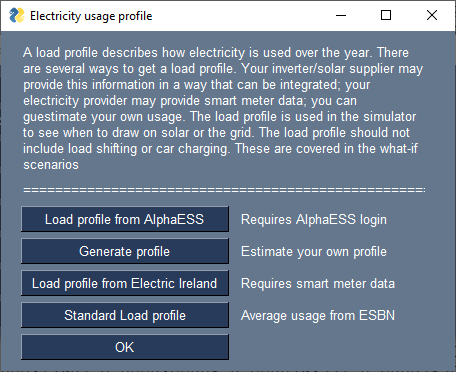
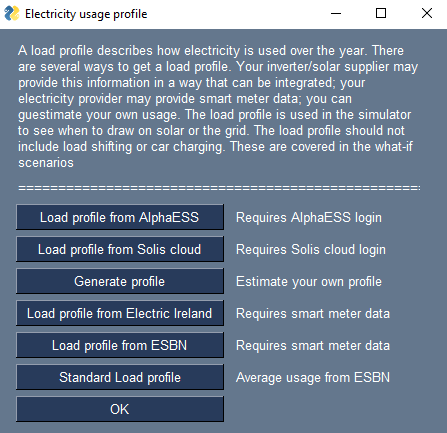
Add ESBN smart data file import

diff --git a/dataPopulation/makedbFromESBNSmartDataFile.py b/dataPopulation/makedbFromESBNSmartDataFile.py
@@ -1,0 +1,199 @@
+import logging
+import json
+import os
+import sys
+import sqlite3
+from sqlite3 import Error
+import datetime
+from dateutil.relativedelta import *
+
+import PySimpleGUI as sg
+import pandas as pd 
+
+
+CONFIG = "C:\\dev\\solar\\"
+STORAGE = "C:\\dev\\solar\\"
+DBFILE = "SimData.db"
+
+logger = logging.getLogger()
+logger.setLevel(logging.INFO)
+handler = logging.StreamHandler(sys.stdout)
+formatter = logging.Formatter('[%(asctime)s] %(levelname)s [%(filename)s.%(funcName)s:%(lineno)d] %(message)s', datefmt='%a, %d %b %Y %H:%M:%S')
+handler.setFormatter(formatter)
+logger.addHandler(handler)
+
+def _fillDB(dbFile, rows):
+    conn = None
+    try:
+        conn = sqlite3.connect(dbFile)
+        c = conn.cursor()
+        c.executemany('REPLACE INTO dailystats VALUES(?,?,?,?,?,?);',rows)
+        conn.commit()
+        c.execute("INSERT INTO dailysums SELECT Date, SUM(NormalPV) AS PV, SUM(NormalLoad) AS Load, 0 AS FeedIn FROM dailystats GROUP BY Date")
+        conn.commit()
+        conn.close()
+    except Error as e:
+        print(e)
+
+def _createDB(dbFile):
+    conn = None
+    try:
+        conn = sqlite3.connect(dbFile)
+        conn.execute("DROP TABLE IF EXISTS dailysums")
+        conn.execute("DROP TABLE IF EXISTS dailystats")
+        conn.commit()
+        conn.execute("CREATE TABLE IF NOT EXISTS dailystats ( \
+                        Date TEXT NOT NULL, \
+                        _min TEXT    NOT NULL, \
+                        NormalLoad REAL DEFAULT '', \
+                        NormalPV REAL DEFAULT '', \
+                        MinuteOfDay INTEGER DEFAULT '', \
+                        DayOfWeek INTEGER DEFAULT '', \
+                        PRIMARY KEY (Date, _min));")
+        # print("dailystats created")
+        conn.execute("CREATE TABLE IF NOT EXISTS dailysums ( \
+                        Date TEXT  PRIMARY KEY    NOT NULL, \
+                        PV REAL    NOT NULL, \
+                        Load REAL    NOT NULL, \
+                        FeedIn REAL NOT NULL \
+                        );")
+        conn.commit()
+        conn.close()
+    except Error as e:
+        print(e)
+
+def _getNormalLoad(mod, profile, workingday, daycount):
+    ret = 0
+    month = datetime.datetime.strftime(workingday, "%b")
+    dow = datetime.datetime.strftime(workingday, "%a")
+    hod = int(mod[:-3])
+    year = int(datetime.datetime.strftime(workingday, "%Y"))
+    imonth = int(datetime.datetime.strftime(workingday, "%m"))
+    day = datetime.date(year, imonth, 1)
+    single_day = datetime.timedelta(days=1)
+    totalXXXDaysInMonth = 0
+    while day.month == imonth:
+        if day.weekday() == 0:
+            totalXXXDaysInMonth += 1
+        day += single_day
+    
+    # ret = profile["HourlyBaseLoad"]/12
+    annualuse = profile["AnnualUsage"] # - (profile["HourlyBaseLoad"] * 24 * daycount)
+
+    distMonth = profile["MonthlyDistribution"][month]/100
+    distdow = profile["DayOfWeekDistribution"][dow]/100
+    disthod = profile["HourlyDistribution"][hod]/100
+
+    monthuse = annualuse * distMonth
+    dayuse = (monthuse / totalXXXDaysInMonth) * distdow 
+    houruse = dayuse * disthod
+
+    ret += houruse/12
+
+    return ret
+
+def _create_rows(smartMeterData):
+    ret = []
+    valueKey = "Read Value"
+    typeKey = "Read Type"
+    dateKey = "Read Date & Time"
+
+    importType = "Active Import Interval (kW)"
+
+    DBNormalPV = 0
+    delta = datetime.timedelta(minutes=5)
+    
+    for _, row in smartMeterData.iterrows():
+        if row[typeKey] != importType:
+            continue
+        dts = row[dateKey]
+        dt = datetime.datetime.strptime(dts, '%d-%m-%Y %H:%M')
+        DBDate = datetime.datetime.strftime(dt, "%Y-%m-%d")
+        DBDayOfWeek = datetime.datetime.strftime(dt, "%w")
+        DBNormalLoad = float(row[valueKey])/6
+
+        DB_min = datetime.datetime.strftime(dt, "%H:%M")
+        DBMinuteOfDay = int(datetime.datetime.strftime(dt, "%H"))*60 + int(datetime.datetime.strftime(dt, "%M"))
+        ret.append((DBDate, DB_min, DBNormalLoad, DBNormalPV, DBMinuteOfDay, DBDayOfWeek))
+
+        for i in range(0,5):
+            dt = dt - delta
+            DB_min = datetime.datetime.strftime(dt, "%H:%M")
+            DBMinuteOfDay = int(datetime.datetime.strftime(dt, "%H"))*60 + int(datetime.datetime.strftime(dt, "%M"))
+            ret.append((DBDate, DB_min, DBNormalLoad, DBNormalPV, DBMinuteOfDay, DBDayOfWeek))
+        
+    return ret
+
+def _getSmartMeterFilename():
+    global CONFIG
+    
+    smartMeterFile = None
+
+    left_col = [
+            [sg.Text('This will wipe the DB and add data from a smart meter data file. If you have solar, the data will not be very good as much of the load profile will be obscured by the solar generation. Export data is part of the file, but this application only uses the import/load data. ', size=(85,3))],
+            [sg.Text('Log into ESBN account (https://www.esbnetworks.ie/existing-connections/meters-and-readings/my-smart-data).  Scroll down to "Download HDF". Click on that link and note where you save the file.', size=(85,3))],
+            [sg.Text('Use the file selector to locate the file and click "Load', size=(85,1))],
+            [sg.Text('====================================================================================', size=(85,1))],
+            [sg.Text('Smart Meter Data file', size=(24,1)), sg.In(size=(25,1), enable_events=True ,key='-C_FOLDER-', default_text=CONFIG), sg.FileBrowse()],
+            [sg.Button('Load', key='-CONFIG_OK-', disabled=True, size=(15,1)), sg.Button('Close', key='-CLOSE-', size=(15,1)) ]
+    ]
+    layout = [[sg.Column(left_col, element_justification='l')]]    
+    window = sg.Window('ESBN Smart Meter Data import', layout,resizable=True)
+        
+    cfolder = CONFIG
+    while True:
+        event, values = window.read()
+        if event in (sg.WIN_CLOSED, 'Exit'): break
+        if event == '-C_FOLDER-': 
+            cfolder = values['-C_FOLDER-']
+            if os.path.isfile(cfolder):
+                window['-CONFIG_OK-'].update(disabled=False) 
+        if event == '-CLOSE-':
+            window.close()
+            break
+        if event == '-CONFIG_OK-':
+            if os.path.isfile(cfolder):
+                smartMeterFile = values['-C_FOLDER-']
+                window.close()
+                break
+    return smartMeterFile
+
+
+def guiDBFromESBNSmartMeter(config):
+    global CONFIG
+    CONFIG = config
+    with open(os.path.join(CONFIG, "EnvProperties.json"), 'r') as f:
+        env = json.load(f)
+    
+    smartMeterFile = _getSmartMeterFilename()
+    if smartMeterFile is None: return
+
+    smartMeterData = pd.read_csv(smartMeterFile)
+
+    dbFile = os.path.join(env["StorageFolder"], env["DBFileName"])
+    _createDB(dbFile)
+    rows = _create_rows (smartMeterData)
+    _fillDB(dbFile, rows)
+
+
+def main():
+    env = {}
+    with open(os.path.join(CONFIG,"EnvProperties.json"), 'r') as f:
+        env = json.load(f)
+    smartMeterFile = _getSmartMeterFilename()
+    if smartMeterFile is None: return
+
+    smartMeterData = pd.read_csv(smartMeterFile)
+
+    dbFile = os.path.join(env["StorageFolder"], env["DBFileName"])
+    _createDB(dbFile)
+    rows = _create_rows (smartMeterData)
+    _fillDB(dbFile, rows)
+
+if __name__ == "__main__":
+    try:
+        CONFIG = sys.argv[1]
+    except:
+        pass
+    print(CONFIG)
+    main()

diff --git a/toutc.py b/toutc.py
@@ -21,12 +21,13 @@ from dataPopulation.makedbFromProfile import _guiDBFromProfile
 from dataPopulation.windowGenerateProfile import genProfile, _saveProfile
 from dataPopulation.windowRates import getRates, _updateRates
 from dataPopulation.makedbFromEISmartDataFile import guiDBFromEISmartMeter
+from dataPopulation.makedbFromESBNSmartDataFile import guiDBFromESBNSmartMeter
 from dataPopulation.loadDefaultSolar import loadDefaultSolar
 from dataPopulation.pvgis2db import guiPVgis
 from dataPopulation.demodefaults import DEMO_START, DEMO_ANNUAL, DEMO_BASE, DEMO_MONTHLYDIST, DEMO_DOWDIST, DEMO_HOURLYDIST, DEMO_RATES, DEMO_SYSTEM
 from dataPopulation.windowScenarios import getScenarios
 
-VERSION = "v0.0.29"
+VERSION = "v0.0.30"
 
 MAIN_WINDOW = None
 
@@ -439,6 +440,7 @@ def _getLoadProfile():
         [sg.Button('Load profile from Solis cloud', key='-LOAD_SOLIS-', size=(25,1)), sg.Text("Requires Solis cloud login", size=(24,1))],
         [sg.Button('Generate profile', key='-LOAD_GENERATE-', size=(25,1)), sg.Text("Estimate your own profile", size=(24,1))],
         [sg.Button('Load profile from Electric Ireland', key='-LOAD_EI-', size=(25,1), disabled=False), sg.Text("Requires smart meter data", size=(24,1))],
+        [sg.Button('Load profile from ESBN', key='-LOAD_ESBN-', size=(25,1), disabled=False), sg.Text("Requires smart meter data", size=(24,1))],
         [sg.Button('Standard Load profile', key='-LOAD_SLP-', size=(25,1), disabled=False), sg.Text("Average usage from ESBN", size=(24,1))],
         [sg.Button('OK', key='-OK-', size=(25,1))]
     ]
@@ -459,6 +461,8 @@ def _getLoadProfile():
             _generateLoadProfile()
         if event == '-LOAD_EI-': 
             guiDBFromEISmartMeter(CONFIG)
+        if event == '-LOAD_ESBN-': 
+            guiDBFromESBNSmartMeter(CONFIG)
         if event == '-LOAD_SLP-': 
             guiDBFromSLP(CONFIG)
         if event == '-OK-': 

diff --git a/README.md b/README.md
@@ -55,7 +55,7 @@ The load shifting and car charging are found here. They both work in similar way
 
 ![Scenario editing](./docs/ScenarioEdit.png)
 
-The usage profile is used to capture how electricity load varies over the year. There are several ways to source this data. If you have an inverter, you may be able to download the data directly (AlphaESS is integrated). If you have a smart meter, you can get the data from your supplier (Electric Ireland smart meter datafile is done). If you have neither, you can generate a load profile (if you have a rough idea when you use electricity) or use the "Standard Load Profile" mandated by the CRU for smart meter SST comparison sites.
+The usage profile is used to capture how electricity load varies over the year. There are several ways to source this data. If you have an inverter, you may be able to download the data directly (AlphaESS and SolisCloud are integrated). If you have a smart meter, you can get the data from your supplier (Electric Ireland smart meter datafile is done), or from ESBN. If you have neither, you can generate a load profile (if you have a rough idea when you use electricity) or use the "Standard Load Profile" mandated by the CRU for smart meter SST comparison sites.
 
 ![Profile options](./docs/ProfileOptions.png)
 ![Alpha ESS input](./docs/AlphaESSInput.png)
@@ -81,15 +81,12 @@ If follows the same use pattern as for scenarios, load shifting, and car chargin
 
 ![Rate editor](./docs/RateEditor.png)
 
-There are a couple of things to note when editing the rates:
+There are a couple of things to note when editing the rates, the app tries to automate a lot of this:
 
 * The day range must start with 0 and end with 24
 * Only whole hours (integers) are accepted, 24Hr clock.
 * Each range must start at the end of the previous
 * Adjacent ranges with the same cost will be merged
-* When adding a new range you must start with the previous, and follow the steps below
-
-![Day profile edit](./docs/RateDateProfile.png)
 
 Creating rates is tedious. It is recommended to save a backup of the 'rates.json' from the configuration folder to a safe place. As with the load profile using it later is as simple as copying it into the new configuration folder. Alternatively, you can add the content of a rates.json using the import button.
 
